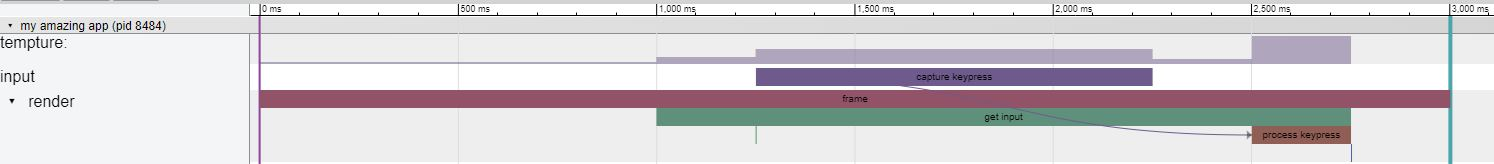
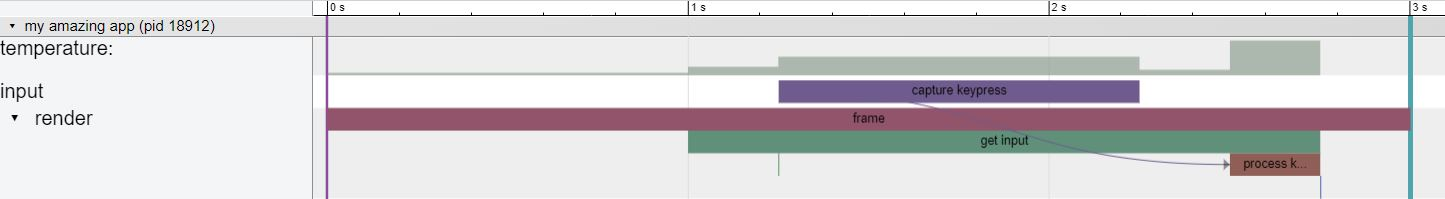
fixed spelling of temperature

diff --git a/README.md b/README.md
@@ -240,7 +240,7 @@ Simply open the repo in visual studio 17, and with its new cmake features and yo
 	seer::set_process_name("my amazing app");
 	seer::set_thread_name("render");
 	seer::instant_event("frame start", seer::InstantEventScope::process);
-	seer::Counter<int> temperature("tempture", 0);
+	seer::Counter<int> temperature("temperature", 0);
 	seer::Async async;
 	seer::ScopeTimer frame("frame");
 	std::this_thread::sleep_for(std::chrono::seconds(1));
